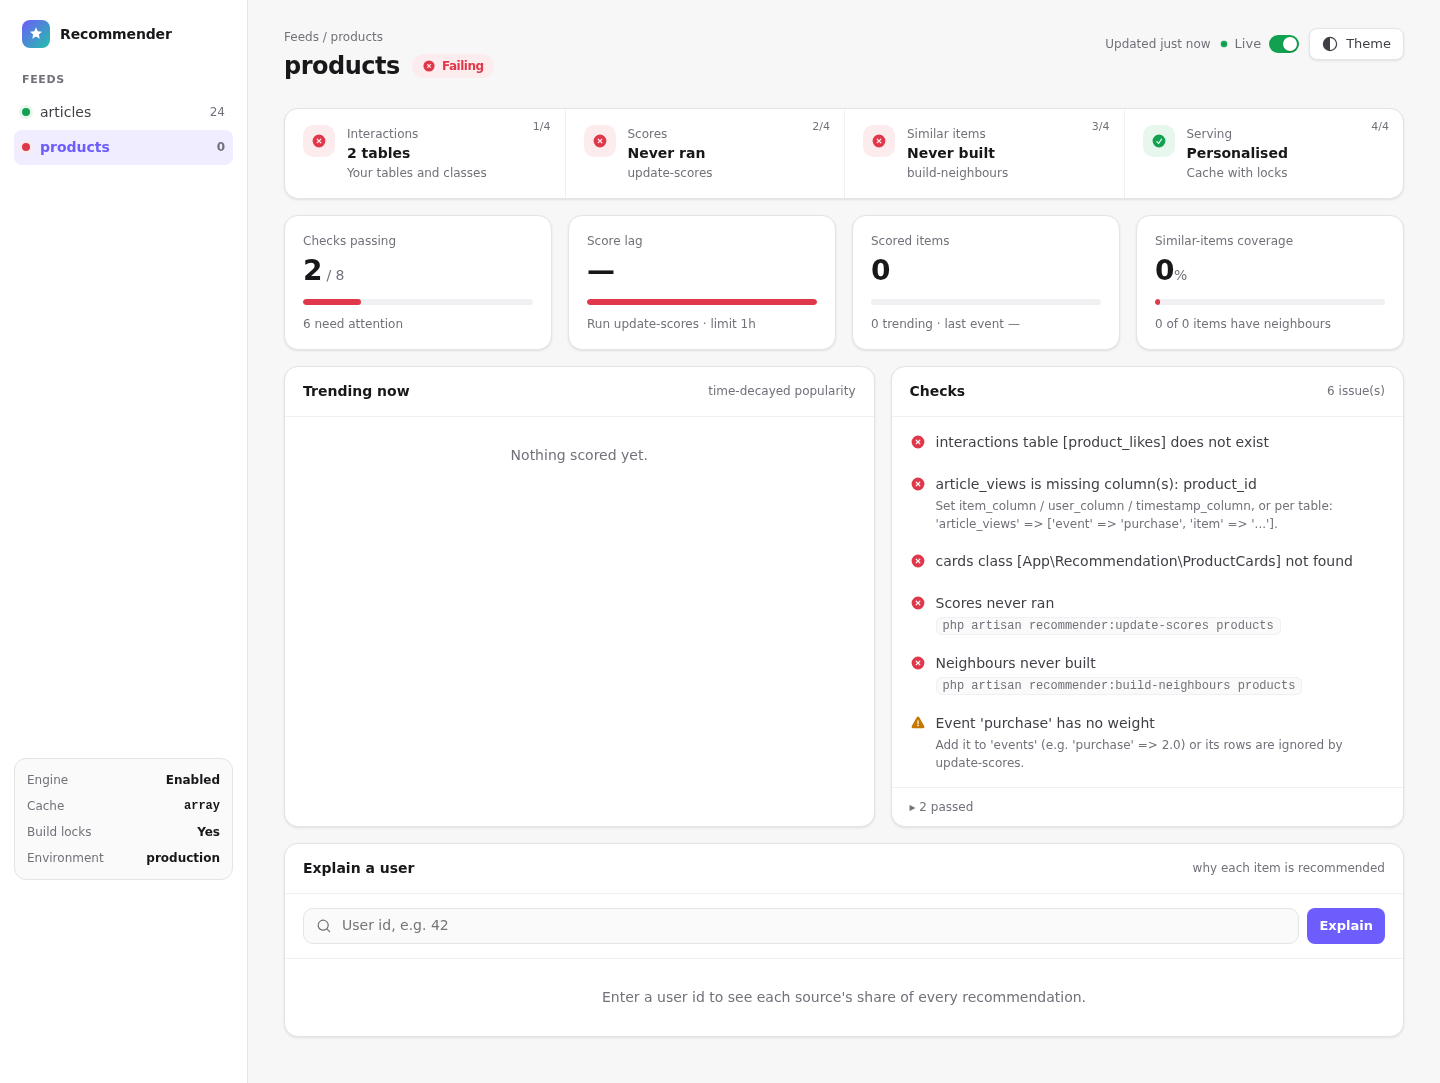
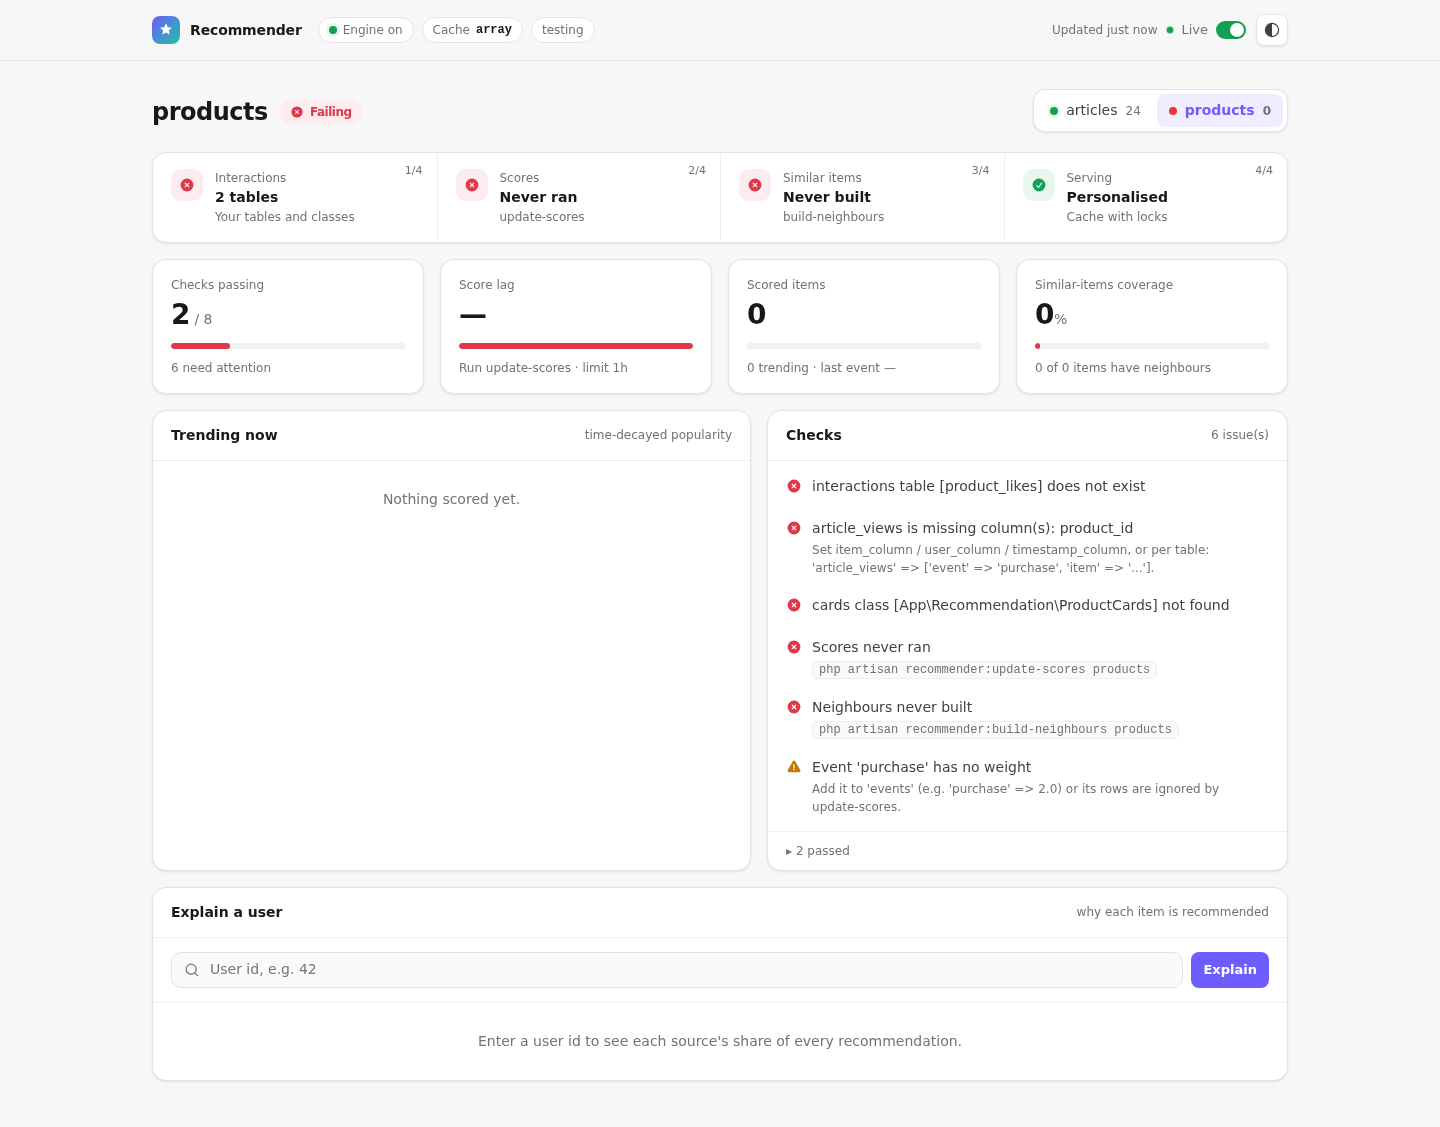
feat: centre the dashboard layout and drop the sidebar
Feeds become tabs next to the title, and engine / cache / environment
move into a slim sticky top bar, like a single-page dashboard.

diff --git a/resources/views/dashboard.blade.php b/resources/views/dashboard.blade.php
@@ -34,31 +34,33 @@
         code, .mono { font-family: "JetBrains Mono", ui-monospace, SFMono-Regular, Menlo, monospace; font-size: 12px; }
         svg { width: 16px; height: 16px; flex: none; }
 
-        .layout { display: grid; grid-template-columns: 248px 1fr; min-height: 100vh; background: linear-gradient(90deg, var(--panel) 247px, var(--line) 247px 248px, var(--bg) 248px); }
-        @media (max-width: 900px) { .layout { grid-template-columns: 1fr; background: var(--bg); } .sidebar { position: static !important; height: auto !important; border-bottom: 1px solid var(--line); } }
+        .wrap { max-width: 1200px; margin: 0 auto; padding-left: 32px; padding-right: 32px; }
+        @media (max-width: 700px) { .wrap { padding-left: 16px; padding-right: 16px; } }
 
-        /* Sidebar */
-        .sidebar { position: sticky; top: 0; height: 100vh; display: flex; flex-direction: column; gap: 24px; padding: 20px 14px; background: var(--panel); border-right: 1px solid var(--line); }
-        .brand { display: flex; align-items: center; gap: 10px; padding: 0 8px; font-weight: 650; letter-spacing: -.01em; }
+        /* Top bar */
+        .top { position: sticky; top: 0; z-index: 10; background: color-mix(in srgb, var(--bg) 85%, transparent); backdrop-filter: saturate(180%) blur(10px); border-bottom: 1px solid var(--line); }
+        .top-row { display: flex; align-items: center; gap: 16px; height: 60px; }
+        .brand { display: flex; align-items: center; gap: 10px; font-weight: 650; letter-spacing: -.01em; }
         .brand-mark { width: 28px; height: 28px; border-radius: 8px; display: grid; place-items: center; color: #fff; background: linear-gradient(135deg, var(--accent), #22c1a8); }
         .brand-mark svg { width: 16px; height: 16px; }
-        .nav-label { padding: 0 8px 6px; font-size: 11px; font-weight: 600; letter-spacing: .06em; text-transform: uppercase; color: var(--muted); }
-        .nav a { display: flex; align-items: center; gap: 10px; padding: 7px 8px; border-radius: 8px; color: var(--ink-2); }
-        .nav a:hover { background: var(--panel-2); }
-        .nav a.active { background: var(--accent-soft); color: var(--accent); font-weight: 600; }
-        .nav .count { margin-left: auto; font-size: 12px; color: var(--muted); font-variant-numeric: tabular-nums; }
+        .chips { display: flex; gap: 8px; flex-wrap: wrap; }
+        .chip { display: inline-flex; align-items: center; gap: 6px; height: 26px; padding: 0 10px; border: 1px solid var(--line); border-radius: 999px; font-size: 12px; color: var(--muted); background: var(--panel); }
+        .chip b { color: var(--ink); font-weight: 600; }
+        @media (max-width: 800px) { .chips { display: none; } }
+        .tabs { margin-left: auto; display: inline-flex; gap: 4px; padding: 4px; border: 1px solid var(--line); border-radius: 12px; background: var(--panel); box-shadow: var(--shadow); }
+        .tabs a { display: inline-flex; align-items: center; gap: 8px; padding: 6px 12px; border-radius: 8px; color: var(--ink-2); font-weight: 500; }
+        .tabs a:hover { background: var(--panel-2); }
+        .tabs a.active { background: var(--accent-soft); color: var(--accent); font-weight: 600; }
+        .tabs .count { font-size: 12px; color: var(--muted); font-variant-numeric: tabular-nums; }
         .dot { width: 8px; height: 8px; border-radius: 50%; flex: none; }
         .dot.ok { background: var(--ok); box-shadow: 0 0 0 3px var(--ok-soft); }
         .dot.warn { background: var(--warn); box-shadow: 0 0 0 3px var(--warn-soft); }
         .dot.fail { background: var(--fail); box-shadow: 0 0 0 3px var(--fail-soft); }
-        .env { margin-top: auto; display: grid; gap: 8px; padding: 12px; border: 1px solid var(--line); border-radius: 12px; background: var(--panel-2); font-size: 12px; }
-        .env div { display: flex; justify-content: space-between; gap: 8px; color: var(--muted); }
-        .env b { color: var(--ink); font-weight: 600; }
+        .btn.icon { width: 32px; padding: 0; justify-content: center; }
 
         /* Main */
-        main { padding: 28px 36px 48px; max-width: 1240px; width: 100%; }
-        @media (max-width: 900px) { main { padding: 20px; } }
-        .topbar { display: flex; align-items: flex-start; gap: 16px; margin-bottom: 24px; }
+        main { padding-top: 28px; padding-bottom: 48px; }
+        .topbar { display: flex; align-items: center; flex-wrap: wrap; gap: 16px; margin-bottom: 20px; }
         .crumbs { font-size: 12px; color: var(--muted); }
         h1 { margin: 2px 0 0; font-size: 24px; font-weight: 650; letter-spacing: -.02em; display: flex; align-items: center; gap: 12px; }
         .actions { margin-left: auto; display: flex; align-items: center; gap: 10px; }
@@ -151,35 +153,33 @@
     </style>
 </head>
 <body>
-<div id="recommender-app" class="layout" data-updated="{{ now()->getTimestamp() }}">
-    <aside class="sidebar">
-        <div class="brand">
-            <span class="brand-mark"><svg viewBox="0 0 20 20" fill="currentColor" aria-hidden="true"><path d="M10 1.5l2.2 5.1 5.3.5-4 3.6 1.2 5.3L10 13.2 5.3 16l1.2-5.3-4-3.6 5.3-.5L10 1.5z"/></svg></span>
-            Recommender
+<div id="recommender-app" data-updated="{{ now()->getTimestamp() }}">
+    <header class="top">
+        <div class="wrap top-row">
+            <div class="brand">
+                <span class="brand-mark"><svg viewBox="0 0 20 20" fill="currentColor" aria-hidden="true"><path d="M10 1.5l2.2 5.1 5.3.5-4 3.6 1.2 5.3L10 13.2 5.3 16l1.2-5.3-4-3.6 5.3-.5L10 1.5z"/></svg></span>
+                Recommender
+            </div>
+            <div class="chips">
+                <span class="chip"><span class="dot {{ $overview['enabled'] ? 'ok' : 'warn' }}"></span>{{ $overview['enabled'] ? 'Engine on' : 'Kill switch on' }}</span>
+                <span class="chip">Cache <b class="mono">{{ $overview['cache_store'] }}</b>{{ $overview['locks'] ? '' : ' · no locks' }}</span>
+                <span class="chip">{{ app()->environment() }}</span>
+            </div>
+            <div class="actions">
+                <span class="crumbs" id="recommender-updated">Updated just now</span>
+                @if ($refresh > 0)
+                    <label class="switch"><span class="pulse"></span>Live<input type="checkbox" id="recommender-live" checked></label>
+                @else
+                    <span class="crumbs">Live paused</span>
+                @endif
+                <button class="btn icon" type="button" id="recommender-theme" title="Toggle light / dark">
+                    <svg viewBox="0 0 20 20" fill="currentColor" aria-hidden="true"><path d="M10 2a8 8 0 1 0 0 16V2Z"/><path fill-rule="evenodd" d="M10 1a9 9 0 1 1 0 18 9 9 0 0 1 0-18Zm0 1.5a7.5 7.5 0 1 0 0 15 7.5 7.5 0 0 0 0-15Z" clip-rule="evenodd"/></svg>
+                </button>
+            </div>
         </div>
+    </header>
 
-        <nav class="nav">
-            <div class="nav-label">Feeds</div>
-            @forelse ($feeds as $name => $feed)
-                <a href="?feed={{ urlencode($name) }}" class="{{ $name === $selected ? 'active' : '' }}">
-                    <span class="dot {{ $feed['status'] }}"></span>
-                    {{ $name }}
-                    <span class="count">{{ number_format($feed['metrics']['scores']) }}</span>
-                </a>
-            @empty
-                <div class="nav-label" style="text-transform:none;letter-spacing:0">No feeds yet</div>
-            @endforelse
-        </nav>
-
-        <div class="env">
-            <div>Engine <b class="{{ $overview['enabled'] ? 'ok' : 'warn' }}">{{ $overview['enabled'] ? 'Enabled' : 'Kill switch on' }}</b></div>
-            <div>Cache <b class="mono">{{ $overview['cache_store'] }}</b></div>
-            <div>Build locks <b>{{ $overview['locks'] ? 'Yes' : 'Fallback' }}</b></div>
-            <div>Environment <b>{{ app()->environment() }}</b></div>
-        </div>
-    </aside>
-
-    <main>
+    <main class="wrap">
         @if ($current === null)
             <div class="card empty">
                 No feeds configured. Add one under <code>feeds</code> in <code>config/recommender.php</code>:<br><br>
@@ -191,25 +191,20 @@
             @php($passed = array_values(array_filter($current['checks'], fn ($c) => $c['level'] === 'ok')))
 
             <div class="topbar">
-                <div>
-                    <div class="crumbs">Feeds / {{ $selected }}</div>
-                    <h1>
-                        {{ $selected }}
-                        <span class="pill {{ $current['status'] }}">{!! $icon[$current['status']] !!} {{ $levelText[$current['status']] }}</span>
-                    </h1>
-                </div>
-                <div class="actions">
-                    <span class="crumbs" id="recommender-updated">Updated just now</span>
-                    @if ($refresh > 0)
-                        <label class="switch"><span class="pulse"></span>Live<input type="checkbox" id="recommender-live" checked></label>
-                    @else
-                        <span class="crumbs">Live paused</span>
-                    @endif
-                    <button class="btn" type="button" id="recommender-theme" title="Toggle theme">
-                        <svg viewBox="0 0 20 20" fill="currentColor" aria-hidden="true"><path d="M10 2a8 8 0 1 0 0 16V2Z"/><path fill-rule="evenodd" d="M10 1a9 9 0 1 1 0 18 9 9 0 0 1 0-18Zm0 1.5a7.5 7.5 0 1 0 0 15 7.5 7.5 0 0 0 0-15Z" clip-rule="evenodd"/></svg>
-                        Theme
-                    </button>
-                </div>
+                <h1>
+                    {{ $selected }}
+                    <span class="pill {{ $current['status'] }}">{!! $icon[$current['status']] !!} {{ $levelText[$current['status']] }}</span>
+                </h1>
+                @if (count($feeds) > 1)
+                    <nav class="tabs" aria-label="Feeds">
+                        @foreach ($feeds as $name => $feed)
+                            <a href="?feed={{ urlencode($name) }}" class="{{ $name === $selected ? 'active' : '' }}">
+                                <span class="dot {{ $feed['status'] }}"></span>{{ $name }}
+                                <span class="count">{{ number_format($feed['metrics']['scores']) }}</span>
+                            </a>
+                        @endforeach
+                    </nav>
+                @endif
             </div>
 
             {{-- Pipeline: where in the flow something is wrong --}}

diff --git a/docs/dashboard.md b/docs/dashboard.md
@@ -12,8 +12,8 @@ https://your-app.test/recommender
 
 | Area | Shows |
 |---|---|
-| Sidebar | Every feed with its status dot (green / amber / red) and scored-item count; engine, cache store, build locks and environment at the bottom. |
-| Header | Feed status (**Healthy / Warnings / Failing**), time since the last update, the **Live** switch and the theme toggle. |
+| Top bar | Engine on / kill switch, cache store (and whether it can lock), environment, time since the last update, the **Live** switch and the light / dark toggle. |
+| Title & feed tabs | The feed's status (**Healthy / Warnings / Failing**) and, with several feeds, one tab per feed with its status dot and scored-item count. |
 | Pipeline | The four steps a feed goes through — **Interactions → Scores → Similar items → Serving** — so you see at a glance *where* it is broken. |
 | Cards | Checks passing, score lag against the 1-hour limit, scored items, and similar-items coverage (share of items that have neighbours). |
 | Trending now | Top 10 items by time-decayed popularity, with positive (e.g. likes) and exposure (e.g. views) counts and their rate. |
